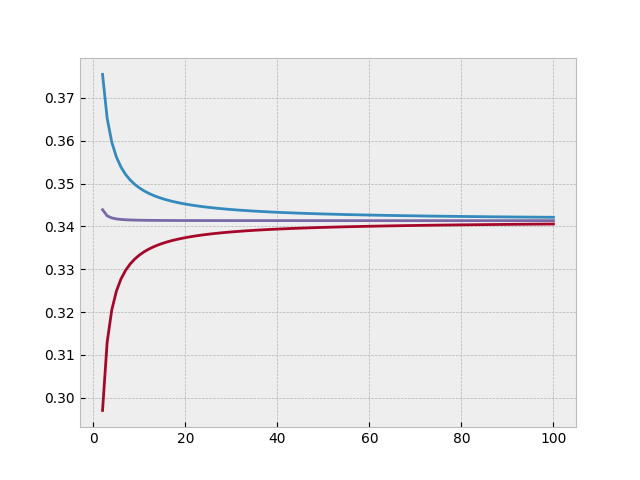
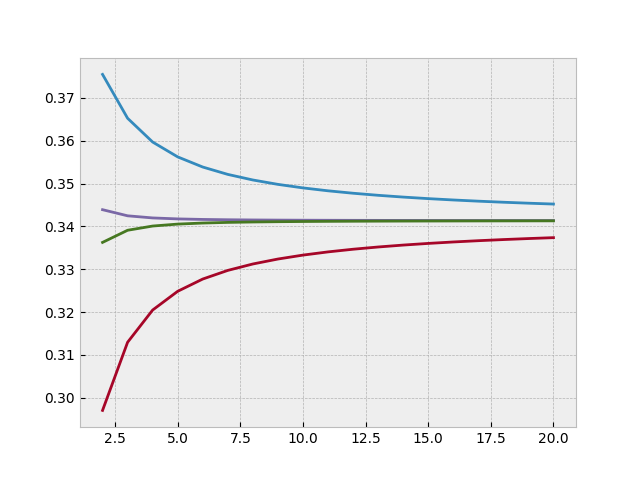
I think trapezoidal is fixed moving on to simpson

diff --git a/Assignment_45/test_45.py b/Assignment_45/test_45.py
@@ -1,6 +1,6 @@
 from standard_normal_probability_2 import *
 import matplotlib.pyplot as plt
-''''
+
 print(calc_standard_normal_probability(0, 1, 6, "left endpoint"))
 print()
 print(calc_standard_normal_probability(0, 1, 100, "right endpoint"))
@@ -9,6 +9,7 @@ print(calc_standard_normal_probability(0, 1, 100, "midpoint"))
 print()
 print(calc_standard_normal_probability(0, 1, 100, "trapezoidal"))
 print()
+''''
 print(calc_standard_normal_probability(0, 1, 20, "simpson"))
 print()
 '''
@@ -17,7 +18,7 @@ keys = ["left endpoint", "right endpoint", "midpoint", "trapezoidal", "simpson"]
 plt.style.use('bmh')
 x_points = []
 y_points = {key : [] for key in keys}
-for subinterval_number in range(2, 101) :
+for subinterval_number in range(2, 21) :
     x_points.append(subinterval_number)
     for key in keys :
         y_points[key].append(calc_standard_normal_probability(0, 1, subinterval_number, key))
@@ -29,6 +30,6 @@ plt.legend(keys)
 plt.plot(x_points, y_points[keys[0]])
 plt.plot(x_points, y_points[keys[1]])
 plt.plot(x_points, y_points[keys[2]])
-#plt.plot(x_points, y_points[keys[3]])
+plt.plot(x_points, y_points[keys[3]])
 #plt.plot(x_points, y_points[keys[4]])
 plt.savefig('Assignment_45/eulerplot.png')

diff --git a/Assignment_45/standard_normal_probability_2.py b/Assignment_45/standard_normal_probability_2.py
@@ -21,9 +21,8 @@ def calc_standard_normal_probability(a,b,n,rule) :
         return prediction * step_size
 
     elif rule == "midpoint" :
-        step_number += 1
         step_2 = step + step_size
-        while step_number <= n :
+        while step_number < n :
             prediction += funct((step + step_2)/2) 
             step += step_size
             step_2 = step + step_size
@@ -33,10 +32,13 @@ def calc_standard_normal_probability(a,b,n,rule) :
     elif rule == "trapezoidal" :
         prediction += funct(step) * 0.5
         step += step_size
-        while step < b :
+        step_number += 1
+        while step_number < n :
             prediction += funct(step) 
             step += step_size
+            step_number += 1
         prediction += funct(step) * 0.5
+        print(n, prediction * step_size)
         return prediction * step_size
     
     elif rule == "simpson" :
